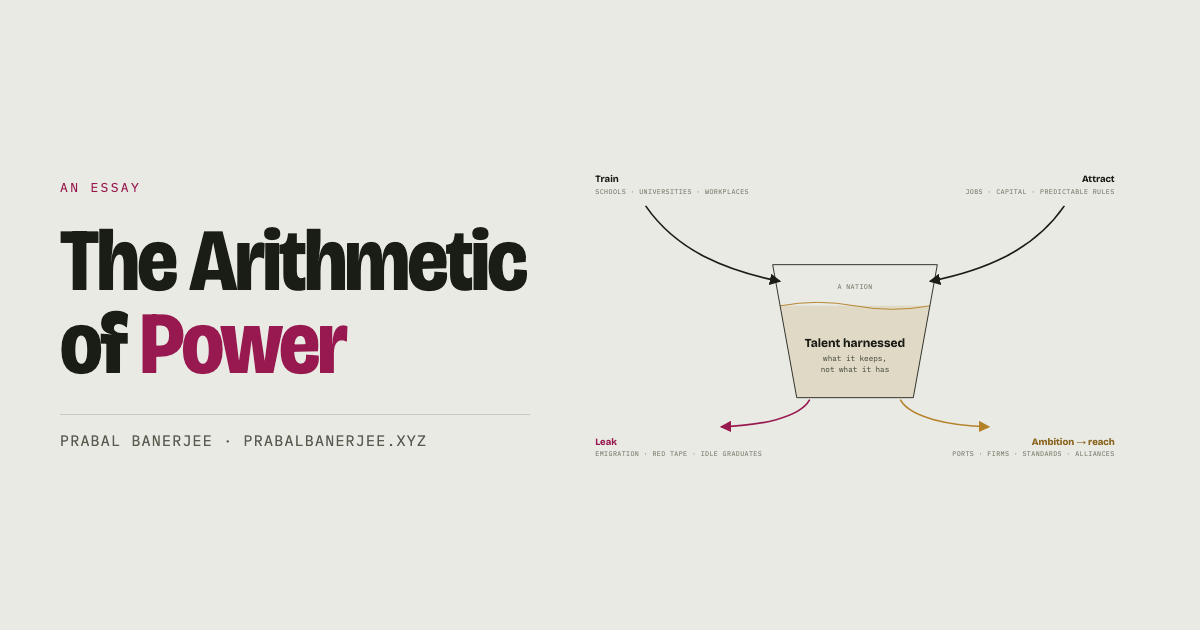
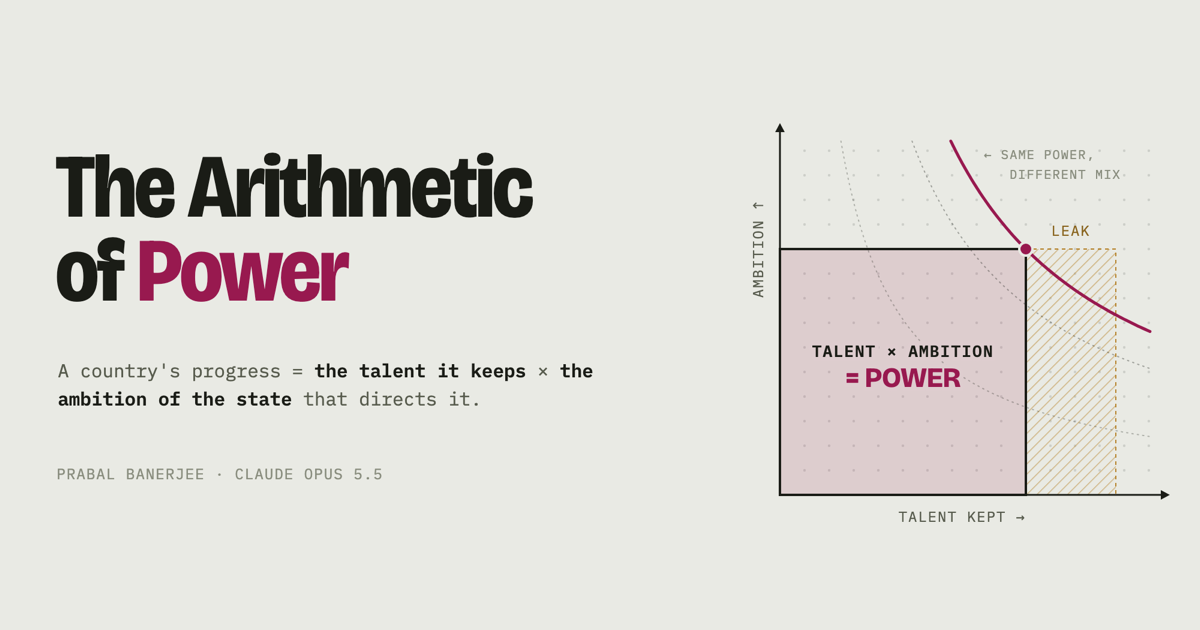
New preview card for /Arithmetic-of-Power
Replace the basin-diagram card with one that draws the essay's claim
directly: talent kept times ambition as a rectangle whose area is
power, the leaked talent as a hatched strip, and curves of equal power.
Adds the subtitle and both authors. og:image:alt and twitter:image:alt
updated to match.

diff --git a/public/Arithmetic-of-Power/index.html b/public/Arithmetic-of-Power/index.html
@@ -20,13 +20,13 @@
 <meta property="og:image:width" content="1200">
 <meta property="og:image:height" content="630">
 <meta property="og:image:type" content="image/png">
-<meta property="og:image:alt" content="A nation drawn as a basin: training and attracting flow in, leaks drain out, over the title The Arithmetic of Power.">
+<meta property="og:image:alt" content="The title The Arithmetic of Power beside a rectangle whose width is talent kept and height is ambition, its area labelled power, with a hatched strip for talent that leaks away and curves of equal power.">
 <meta property="article:published_time" content="2026-09-27">
 <meta name="twitter:card" content="summary_large_image">
 <meta name="twitter:site" content="@prabalbanerjee">
 <meta name="twitter:creator" content="@prabalbanerjee">
 <meta name="twitter:image" content="https://prabalbanerjee.xyz/og-arithmetic-of-power.png">
-<meta name="twitter:image:alt" content="A nation drawn as a basin: training and attracting flow in, leaks drain out, over the title The Arithmetic of Power.">
+<meta name="twitter:image:alt" content="The title The Arithmetic of Power beside a rectangle whose width is talent kept and height is ambition, its area labelled power, with a hatched strip for talent that leaks away and curves of equal power.">
 <script type="application/ld+json">{"@context": "https://schema.org", "@type": "Article", "headline": "The Arithmetic of Power", "description": "Every power that mattered was built by a small circle of capable people and a state ambitious enough to use them. The difference now is that those people choose where to go.", "url": "https://prabalbanerjee.xyz/Arithmetic-of-Power/", "mainEntityOfPage": {"@type": "WebPage", "@id": "https://prabalbanerjee.xyz/Arithmetic-of-Power/"}, "datePublished": "2026-09-27", "inLanguage": "en", "image": "https://prabalbanerjee.xyz/og-arithmetic-of-power.png", "author": [{"@type": "Person", "@id": "https://prabalbanerjee.xyz/#prabal", "name": "Prabal Banerjee", "url": "https://prabalbanerjee.xyz"}, {"@type": "SoftwareApplication", "name": "Claude Opus 5.5", "applicationCategory": "AI language model", "url": "https://claude.ai"}], "publisher": {"@type": "Person", "@id": "https://prabalbanerjee.xyz/#prabal", "name": "Prabal Banerjee"}, "isPartOf": {"@type": "WebSite", "name": "Prabal Banerjee", "url": "https://prabalbanerjee.xyz"}, "about": ["talent migration", "state capacity", "brain drain", "higher education policy", "geopolitics"]}</script>
 <link rel="preconnect" href="https://fonts.googleapis.com">
 <link rel="preconnect" href="https://fonts.gstatic.com" crossorigin>
